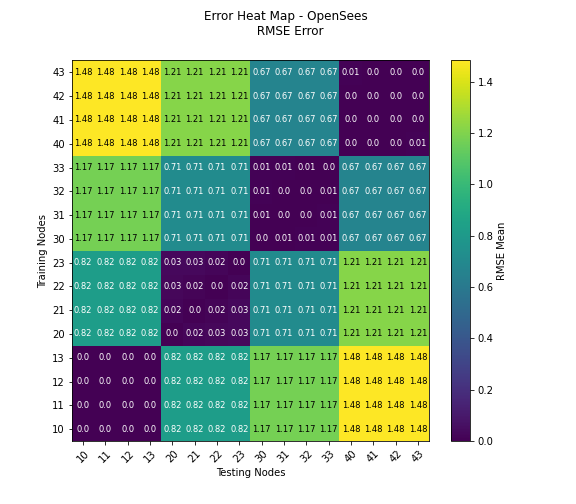
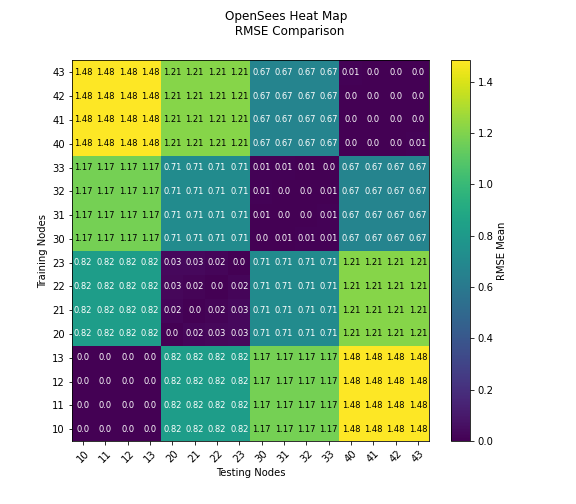
Change in SampEn NotErrors

Changed region(s): [[0.3438, 0.0, 0.625, 0.0893]]

diff --git a/OpenSeesPy_Model_2_Steel_Frame_2D_Python/SampEn_Est.py b/OpenSeesPy_Model_2_Steel_Frame_2D_Python/SampEn_Est.py
@@ -49,45 +49,46 @@ struc_nodes = Structure.Nodes[0]
 struc_periods = list(Structure.Periods[0])
 
 #%% Estimate Entropy
-df_SampEn = pd.DataFrame(0,columns = struc_nodes, index = Index_Results.index)
-
-# r=root, d=directories, f = files
-for rdirs, dirs, files in os.walk(folder_accs):
-    for file in files:
-        
-        # Load Ground Motions for X/Y
-        if rdirs == folder_accs and file.endswith("Accs.out"):
-            #print(os.path.join(rdirs, file))
-            #print(idx)
-            #print('Loading file: ',file)
+if False:
+    df_SampEn = pd.DataFrame(0,columns = struc_nodes, index = Index_Results.index)
+    
+    # r=root, d=directories, f = files
+    for rdirs, dirs, files in os.walk(folder_accs):
+        for file in files:
             
-            time_Accs = np.loadtxt( os.path.join(folder_accs, file) )
-            
-            if file[3:6][0] != str(0):
-                idx = int(file[3:6])
-            elif file[3:6][1] != str(0):
-                idx = int(file[4:6])
-            else:
-                idx = int(file[5:6])
+            # Load Ground Motions for X/Y
+            if rdirs == folder_accs and file.endswith("Accs.out"):
+                #print(os.path.join(rdirs, file))
+                #print(idx)
+                #print('Loading file: ',file)
+                
+                time_Accs = np.loadtxt( os.path.join(folder_accs, file) )
+                
+                if file[3:6][0] != str(0):
+                    idx = int(file[3:6])
+                elif file[3:6][1] != str(0):
+                    idx = int(file[4:6])
+                else:
+                    idx = int(file[5:6])
+                        
+                # GM = Index_Results['Ground motion'][idx]
+                # LF = Index_Results['Load factor'][idx]
+                # print('GM: ',GM ,'Loadfactor: ', LF)
+                print('EarthQuake ID: ', idx)
+                
+                
+                
+                # Load Accelerations in nodes X
+                for j in range(1,len(time_Accs[0])):
+                    #time = time_Accs[:,0]
+                    accs = time_Accs[:,j].tolist()
                     
-            # GM = Index_Results['Ground motion'][idx]
-            # LF = Index_Results['Load factor'][idx]
-            # print('GM: ',GM ,'Loadfactor: ', LF)
-            print('EarthQuake ID: ', idx)
-            
-            
-            
-            # Load Accelerations in nodes X
-            for j in range(1,len(time_Accs[0])):
-                #time = time_Accs[:,0]
-                accs = time_Accs[:,j].tolist()
+                    SampEn = DamageTools.SampEn(accs, 2, 0.2*np.std(accs))
+                    
+                    df_SampEn[struc_nodes[j-1]][idx] = SampEn
+                    
                 
-                SampEn = DamageTools.SampEn(accs, 2, 0.2*np.std(accs))
-                
-                df_SampEn[struc_nodes[j-1]][idx] = SampEn
-                
-            
-df_SampEn.to_pickle(folder_structure + "/00_SampEn.pkl")
+    df_SampEn.to_pickle(folder_structure + "/00_SampEn.pkl")
 #%% Load
 df_SampEn = pd.read_pickle( os.path.join(folder_structure, '00_SampEn.pkl') ) 
 
@@ -314,7 +315,7 @@ for error in Errors:
     
     plt.xticks(rotation = 45) # Rotates X-Axis Ticks by 45-degrees
     
-    plt.suptitle(f'Error Heat Map - OpenSees \n {error} Error' )
+    plt.suptitle(f'OpenSees Heat Map \n {error} Comparison' )
     plt.xlabel('Testing Nodes')
     plt.ylabel('Training Nodes')
     #plt.show()
